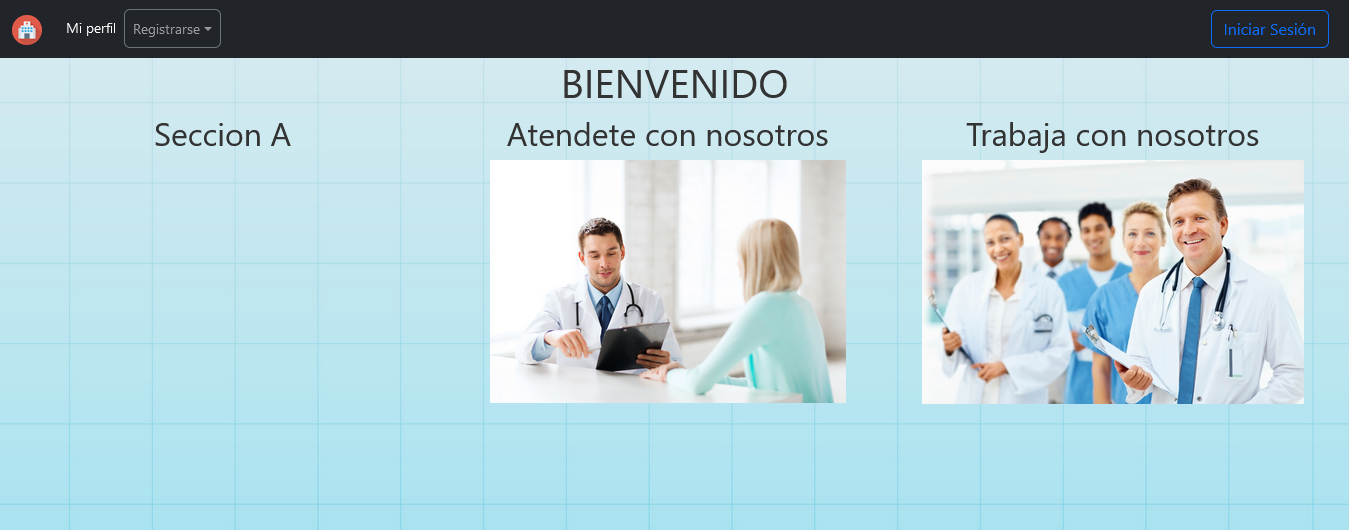
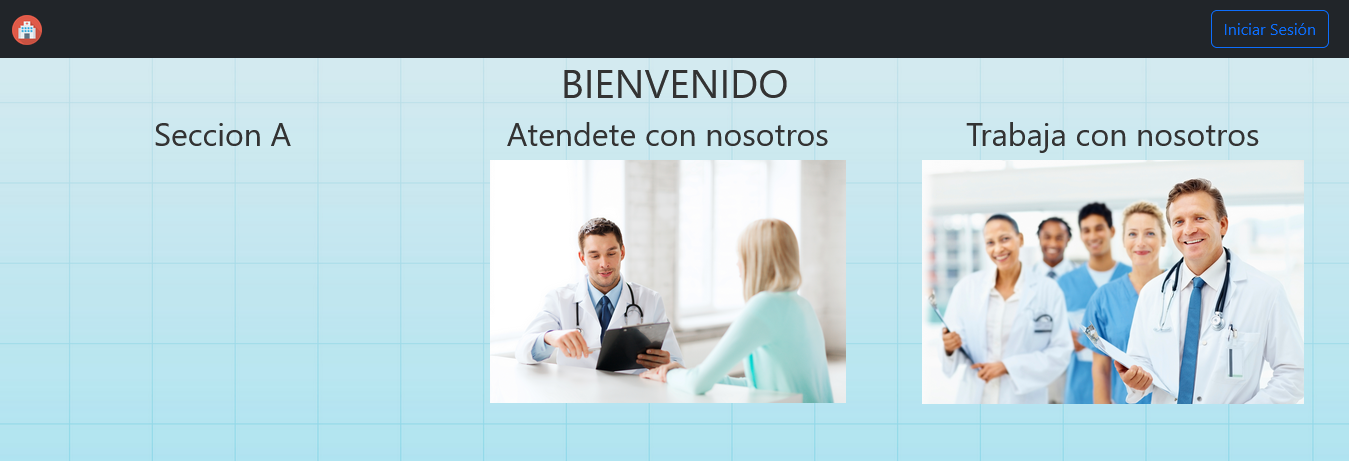
Sprint 1 terminado

diff --git a/src/app/paginas/menu/menu.component.html b/src/app/paginas/menu/menu.component.html
@@ -62,7 +62,7 @@
             <li class="nav-item" *ngIf="verificarUsuario() === 'administrador' ">
                 <a class="nav-link active" aria-current="page" href="/usuarios">Usuarios</a>
             </li>
-            <li class="nav-item">
+            <li class="nav-item" *ngIf="logInVerification()">
                 <a class="nav-link active" aria-current="page" href="/mi-perfil">Mi perfil</a>
             </li>
             <li class="nav-item" *ngIf="verificarUsuario() === 'administrador' ||  verificarUsuario() === 'paciente'">
@@ -75,7 +75,7 @@
                 <a class="nav-link active" aria-current="page" href="/turnos/turnos">Turnos</a>
             </li>
           
-          <li class="nav-item dropdown">
+          <!--li class="nav-item dropdown">
             <a class="nav-link dropdown-toggle btn btn-outline-secondary me-2" href="#" id="dropdown03" data-bs-toggle="dropdown" aria-expanded="false">Registrarse</a>
             <ul class="dropdown-menu" aria-labelledby="dropdown03">
               <li><a class="dropdown-item" href="/alta-paciente">Como Paciente</a></li>
@@ -83,7 +83,7 @@
               <li><a *ngIf="verificarUsuario() === 'administrador' "
                 class="dropdown-item" href="/alta-administrador">Como Administrador</a></li>
             </ul>
-          </li>
+          </li-->
         </ul>
       <form class="d-flex" *ngIf="logInVerification() === false">
         <a class="btn btn-outline-primary me-2" routerLink='/login' role="button">Iniciar Sesión</a>

diff --git a/README.md b/README.md
@@ -12,3 +12,45 @@ https://alvarezeliasclinica2022.web.app/
 
 Al entrar por primera vez en la pagina se encontrará con el menu de inicio
 ![preview](/src/assets/Readme/Pagina%20Principal.png)
+
+Desde aqui podra iniciar sesion o registrarse.
+Clickeando en las distintas imagenes podra seleccionar si desea registrarse como un paciente o un especialista.
+
+## Menu de Registro
+
+### Pacientes
+
+A continuacion se muestra el formulario que debera llenar para registrarse como paciente.
+![preview](/src/assets/Readme/Registro%20Paciente.png)
+
+La edad minima de los pacientes debe ser de 18 años.
+Asegurese de ingresar un email valido ya que se le enviara un email para verificar su cuenta, de lo contrario no podra ingresar aun estando registrado en el sistema.
+
+### Especialistas
+
+A continuacion se muestra el formulario que debera llenar para registrarse como especialista.
+![preview](/src/assets/Readme/Registro%20Especialista.png)
+
+La edad minima de los especialistas debe ser de 18 años.
+Si su especialidad no se encuentra en el listado de especialidades predeterminadas seleccione "Otro" y a continuacion escriba el nombre de su especialidad. Tenga en cuenta que esta no aparecera en el sistema para las demas personas que quieran registrarse hasta que este corroborada por un administrador.
+Asegurese de ingresar un email valido ya que se le enviara un email para verificar su cuenta, de lo contrario no podra ingresar aun estando registrado en el sistema.
+Ademas, necesitará la habilitación de un administrador antes de poder entrar a la plataforma.
+
+### Administradores
+
+A continuacion se muestra el formulario que debera llenar para registrarse como administrador.
+![preview](/src/assets/Readme/Registro%20Admin.png)
+
+Este formulario solo esta disponible para los usuarios administradores, asi que solo puede acceder a el si ya posee credenciales de administrador.
+
+## Menu de inicio de sesión
+
+Desde aqui podra acceder a la plataforma utilizando sus credenciales, o puede clickear en algunos de los iconos del lado derecho, lo cual le brindara el acceso a algunas de las cuentas basicas de prueba (administrador, paciente y especialista)
+
+![preview](/src/assets/Readme/Login.png)
+
+## Menu de administradores
+
+Una vez haya iniciado sesión como administrador accedera a funciones adicionales, como el registro de administradores, el cual se encuentra en la seccion "Usuarios" del menu, ademas de controlar los turnos asignados por especialistas y demas funciones que se iran implementando con el tiempo.
+
+![preview](/src/assets/Readme/Menu%20admin.png)
